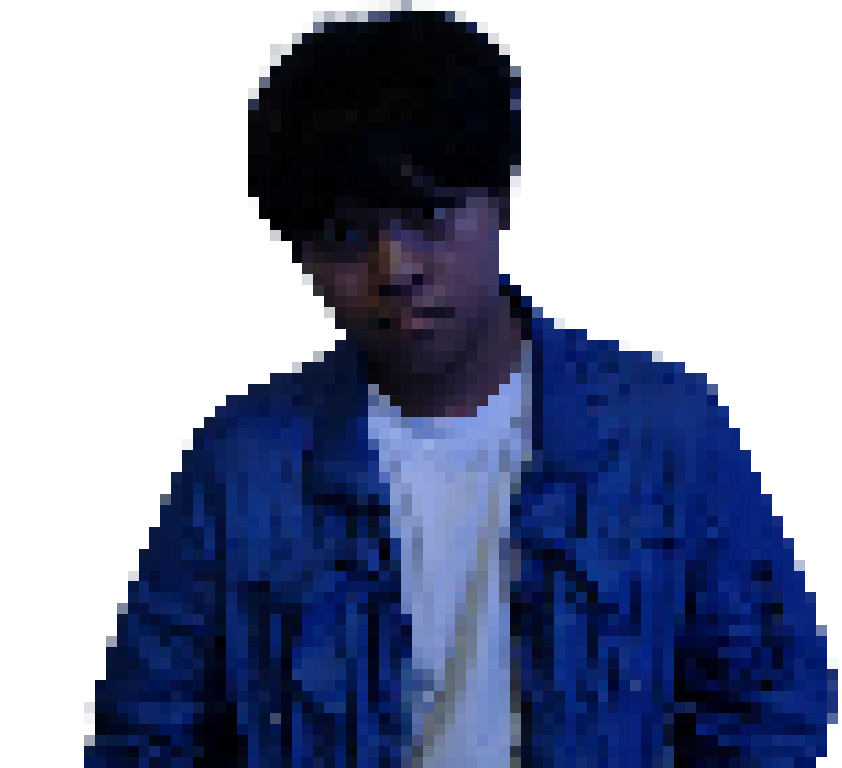
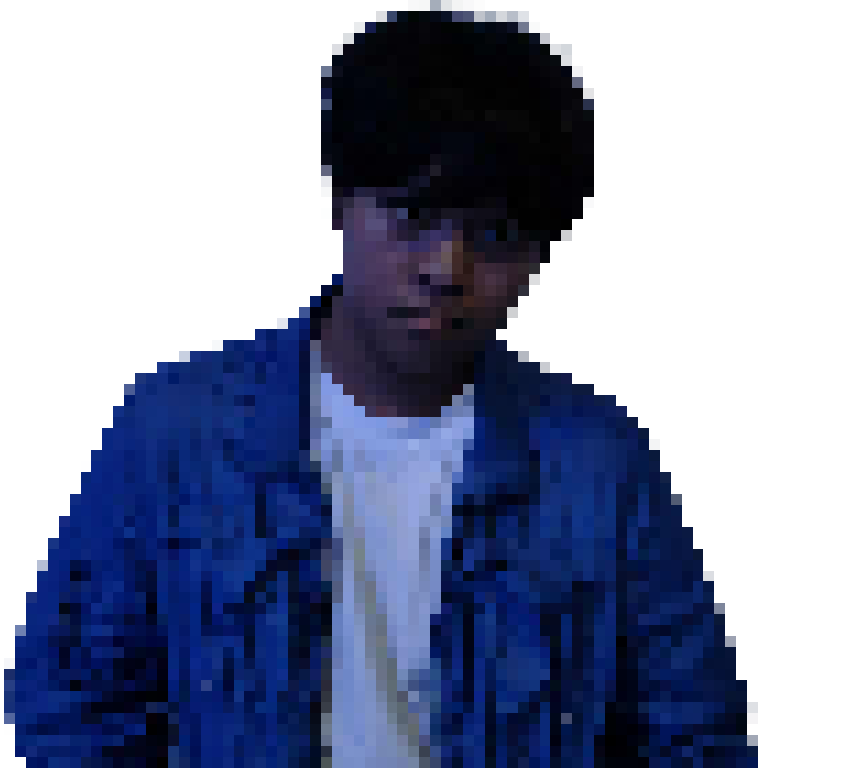
updating individual profiles + updating jayvee's picture

diff --git a/templates/member_profiles/jayvee.html b/templates/member_profiles/jayvee.html
@@ -31,7 +31,7 @@
 
     <div class="text-big">JAYVEE</div>
     <div class="text-small"><i>BUSTAMANTE</i></div>
-    <div class="adjective-big">FOUNDING GOONER</div>
+    <div class="adjective-big">WEBSITE TESTER</div>
     <div class="text-contracts">CONTRACTS:</div>
     <div class="text-contacts">CONTACTS:</div>
     <div class="vertical-line"></div>

diff --git a/templates/member_profiles/deqs.html b/templates/member_profiles/deqs.html
@@ -31,7 +31,7 @@
 
     <div class="text-big">AERON</div>
     <div class="text-small"><i>DEQUITO</i></div>
-    <div class="adjective-big">FEMBOY LOVER</div>
+    <div class="adjective-big">BACK-END/FRONT-END</div>
     <div class="text-contracts">CONTRACTS:</div>
     <div class="text-contacts">CONTACTS:</div>
     <div class="vertical-line"></div>

diff --git a/templates/member_profiles/marx.html b/templates/member_profiles/marx.html
@@ -31,7 +31,7 @@
 
     <div class="text-big">MARXIUS</div>
     <div class="text-small"><i>LOMBOYS</i></div>
-    <div class="adjective-big">LOWKEY FEMBOY</div>
+    <div class="adjective-big">BACK-END/LEADER</div>
     <div class="text-contracts">CONTRACTS:</div>
     <div class="text-contacts">CONTACTS:</div>
     <div class="vertical-line"></div>

diff --git a/templates/member_profiles/ian.html b/templates/member_profiles/ian.html
@@ -31,7 +31,7 @@
 
     <div class="text-big">RAFAEL</div>
     <div class="text-small"><i>SILORIO</i></div>
-    <div class="adjective-big">"BIG MAN"</div>
+    <div class="adjective-big">WEBSITE DESIGNER</div>
     <div class="text-contracts">CONTRACTS:</div>
     <div class="text-contacts">CONTACTS:</div>
     <div class="vertical-line"></div>

diff --git a/templates/member_profiles/jed.html b/templates/member_profiles/jed.html
@@ -31,7 +31,7 @@
 
     <div class="text-big">JEDRICK</div>
     <div class="text-small"><i>NEPACENA</i></div>
-    <div class="adjective-big">LOWKEY FEMBOY</div>
+    <div class="adjective-big">FRONT-END</div>
     <div class="text-contracts">CONTRACTS:</div>
     <div class="text-contacts">CONTACTS:</div>
     <div class="vertical-line"></div>

diff --git a/templates/member_profiles/james.html b/templates/member_profiles/james.html
@@ -31,7 +31,7 @@
 
     <div class="text-big">JAMES</div>
     <div class="text-small"><i>OROZCO</i></div>
-    <div class="adjective-big">NONCHALANT GOONER</div>
+    <div class="adjective-big">BACK-END</div>
     <div class="text-contracts">CONTRACTS:</div>
     <div class="text-contacts">CONTACTS:</div>
     <div class="vertical-line"></div>

diff --git a/templates/member_profiles/ced.html b/templates/member_profiles/ced.html
@@ -31,7 +31,7 @@
 
     <div class="text-big">CEDRIQUE</div>
     <div class="text-small"><i>ORBISTA</i></div>
-    <div class="adjective-big">D-1 GOONER</div>
+    <div class="adjective-big">FRONT-END</div>
     <div class="text-contracts">CONTRACTS:</div>
     <div class="text-contacts">CONTACTS:</div>
     <div class="vertical-line"></div>

diff --git a/templates/member_profiles/hassan.html b/templates/member_profiles/hassan.html
@@ -31,7 +31,7 @@
 
     <div class="text-big">HASSAN</div>
     <div class="text-small"><i>MUSTAFA</i></div>
-    <div class="adjective-big">"BIG BONED"</div>
+    <div class="adjective-big">FRONT-END</div>
     <div class="text-contracts">CONTRACTS:</div>
     <div class="text-contacts">CONTACTS:</div>
     <div class="vertical-line"></div>

diff --git a/templates/member_profiles/matt.html b/templates/member_profiles/matt.html
@@ -31,7 +31,7 @@
 
     <div class="text-big">MATTHEW</div>
     <div class="text-small"><i>SOSA</i></div>
-    <div class="adjective-big">SOLIDO</div>
+    <div class="adjective-big">WEBSITE DESIGNER</div>
     <div class="text-contracts">CONTRACTS:</div>
     <div class="text-contacts">CONTACTS:</div>
     <div class="vertical-line"></div>

diff --git a/templates/member_profiles/laei.html b/templates/member_profiles/laei.html
@@ -31,7 +31,7 @@
 
     <div class="text-big">JOHN LAEI</div>
     <div class="text-small"><i>DE GUZMAN</i></div>
-    <div class="adjective-big">UGH</div>
+    <div class="adjective-big"></div>
     <div class="text-contracts">CONTRACTS:</div>
     <div class="text-contacts">CONTACTS:</div>
     <div class="vertical-line"></div>
